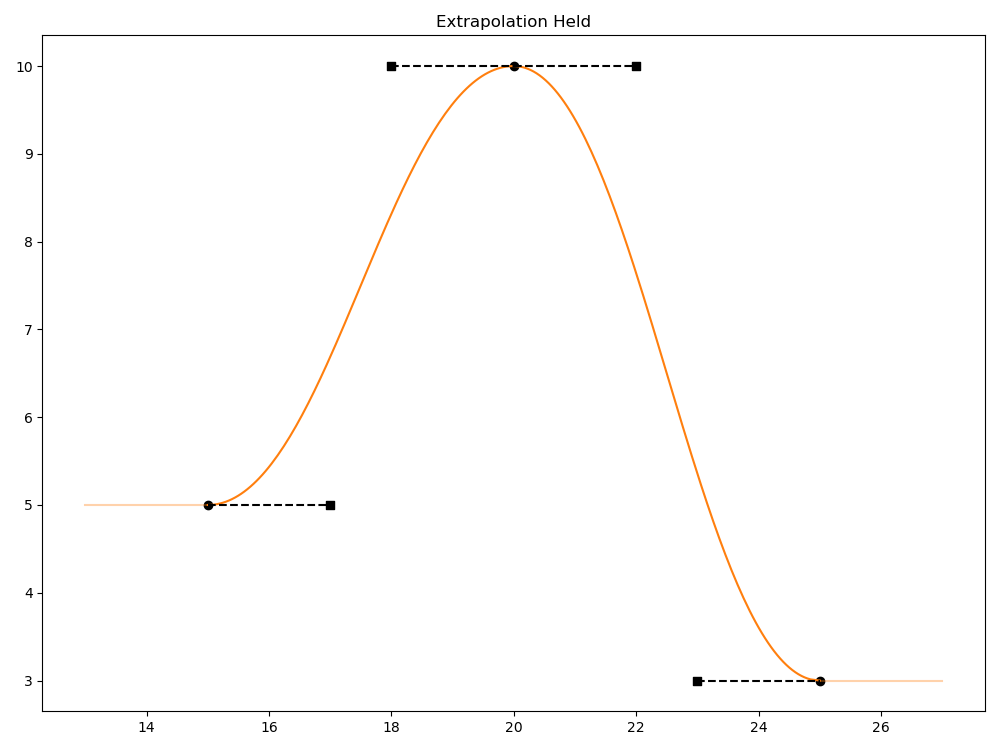
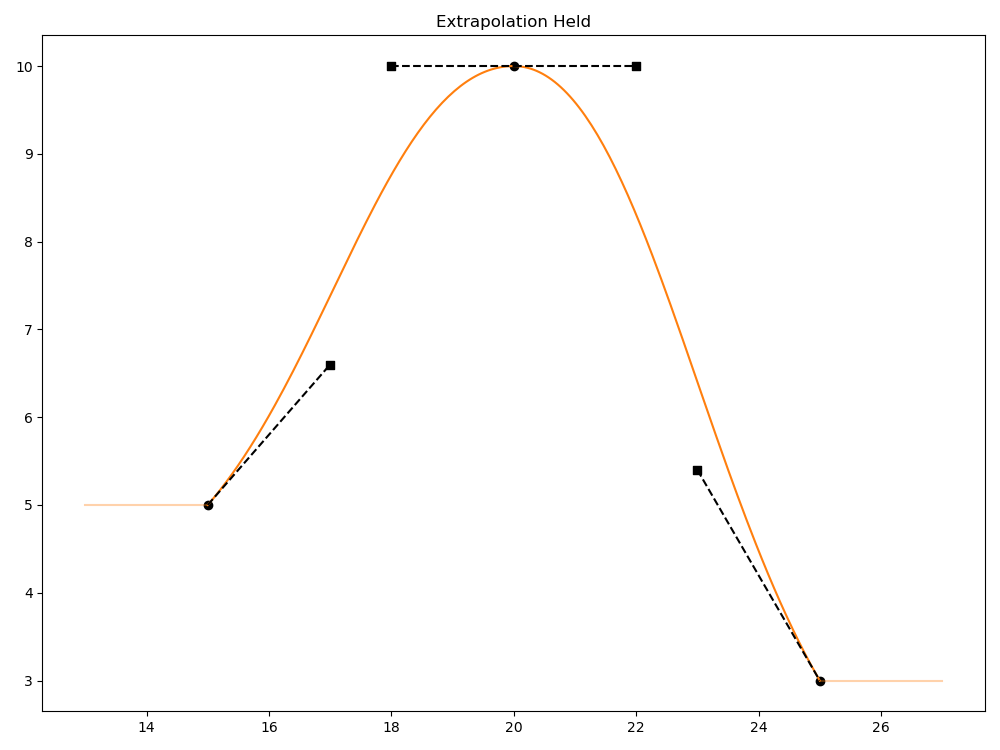
Updates to anim guide.
(Internal change: 2421149)

diff --git a/docs/user_guides/time_and_animated_values.rst b/docs/user_guides/time_and_animated_values.rst
@@ -1859,9 +1859,9 @@ pre-extrapolation value is 5, and the post-extrapolation value is 3.
        custom float attr
        float attr.spline = {
            bezier,
-           15: 5; pre (2, 0.5); post curve (2, 0.9),
+           15: 5; pre (2, 0.5); post curve (2, 0.8),
            20: 10; pre (2, 0); post curve (2, 0),
-           25: 3; pre (2, 0.5); post curve (2, 0.9),
+           25: 3; pre (2, -1.2); post curve (2, 0.9),
        }
    }
 
